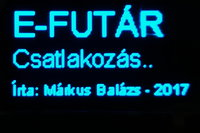
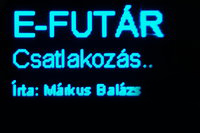
Comment edits & docs update

diff --git a/README.md b/README.md
@@ -1,7 +1,7 @@
 # E-FUTÁR ![enter image description here](https://github.com/bazsimarkus/E-FUTAR/raw/master/docs/bkk_icon.png)
 **Beágyazott BKK Futár port ESP32 SoC-ra SSD1306 OLED kijelzővel, Arduino fejlesztőkörnyezetben**
 
-Írta: Márkus Balázs - 2017
+Írta: Márkus Balázs
 
 *This repository contains an embedded online bus tracking software that is only useful in Budapest, Hungary - so the documentation is written in Hungarian as well. Thanks for understanding!*
 
